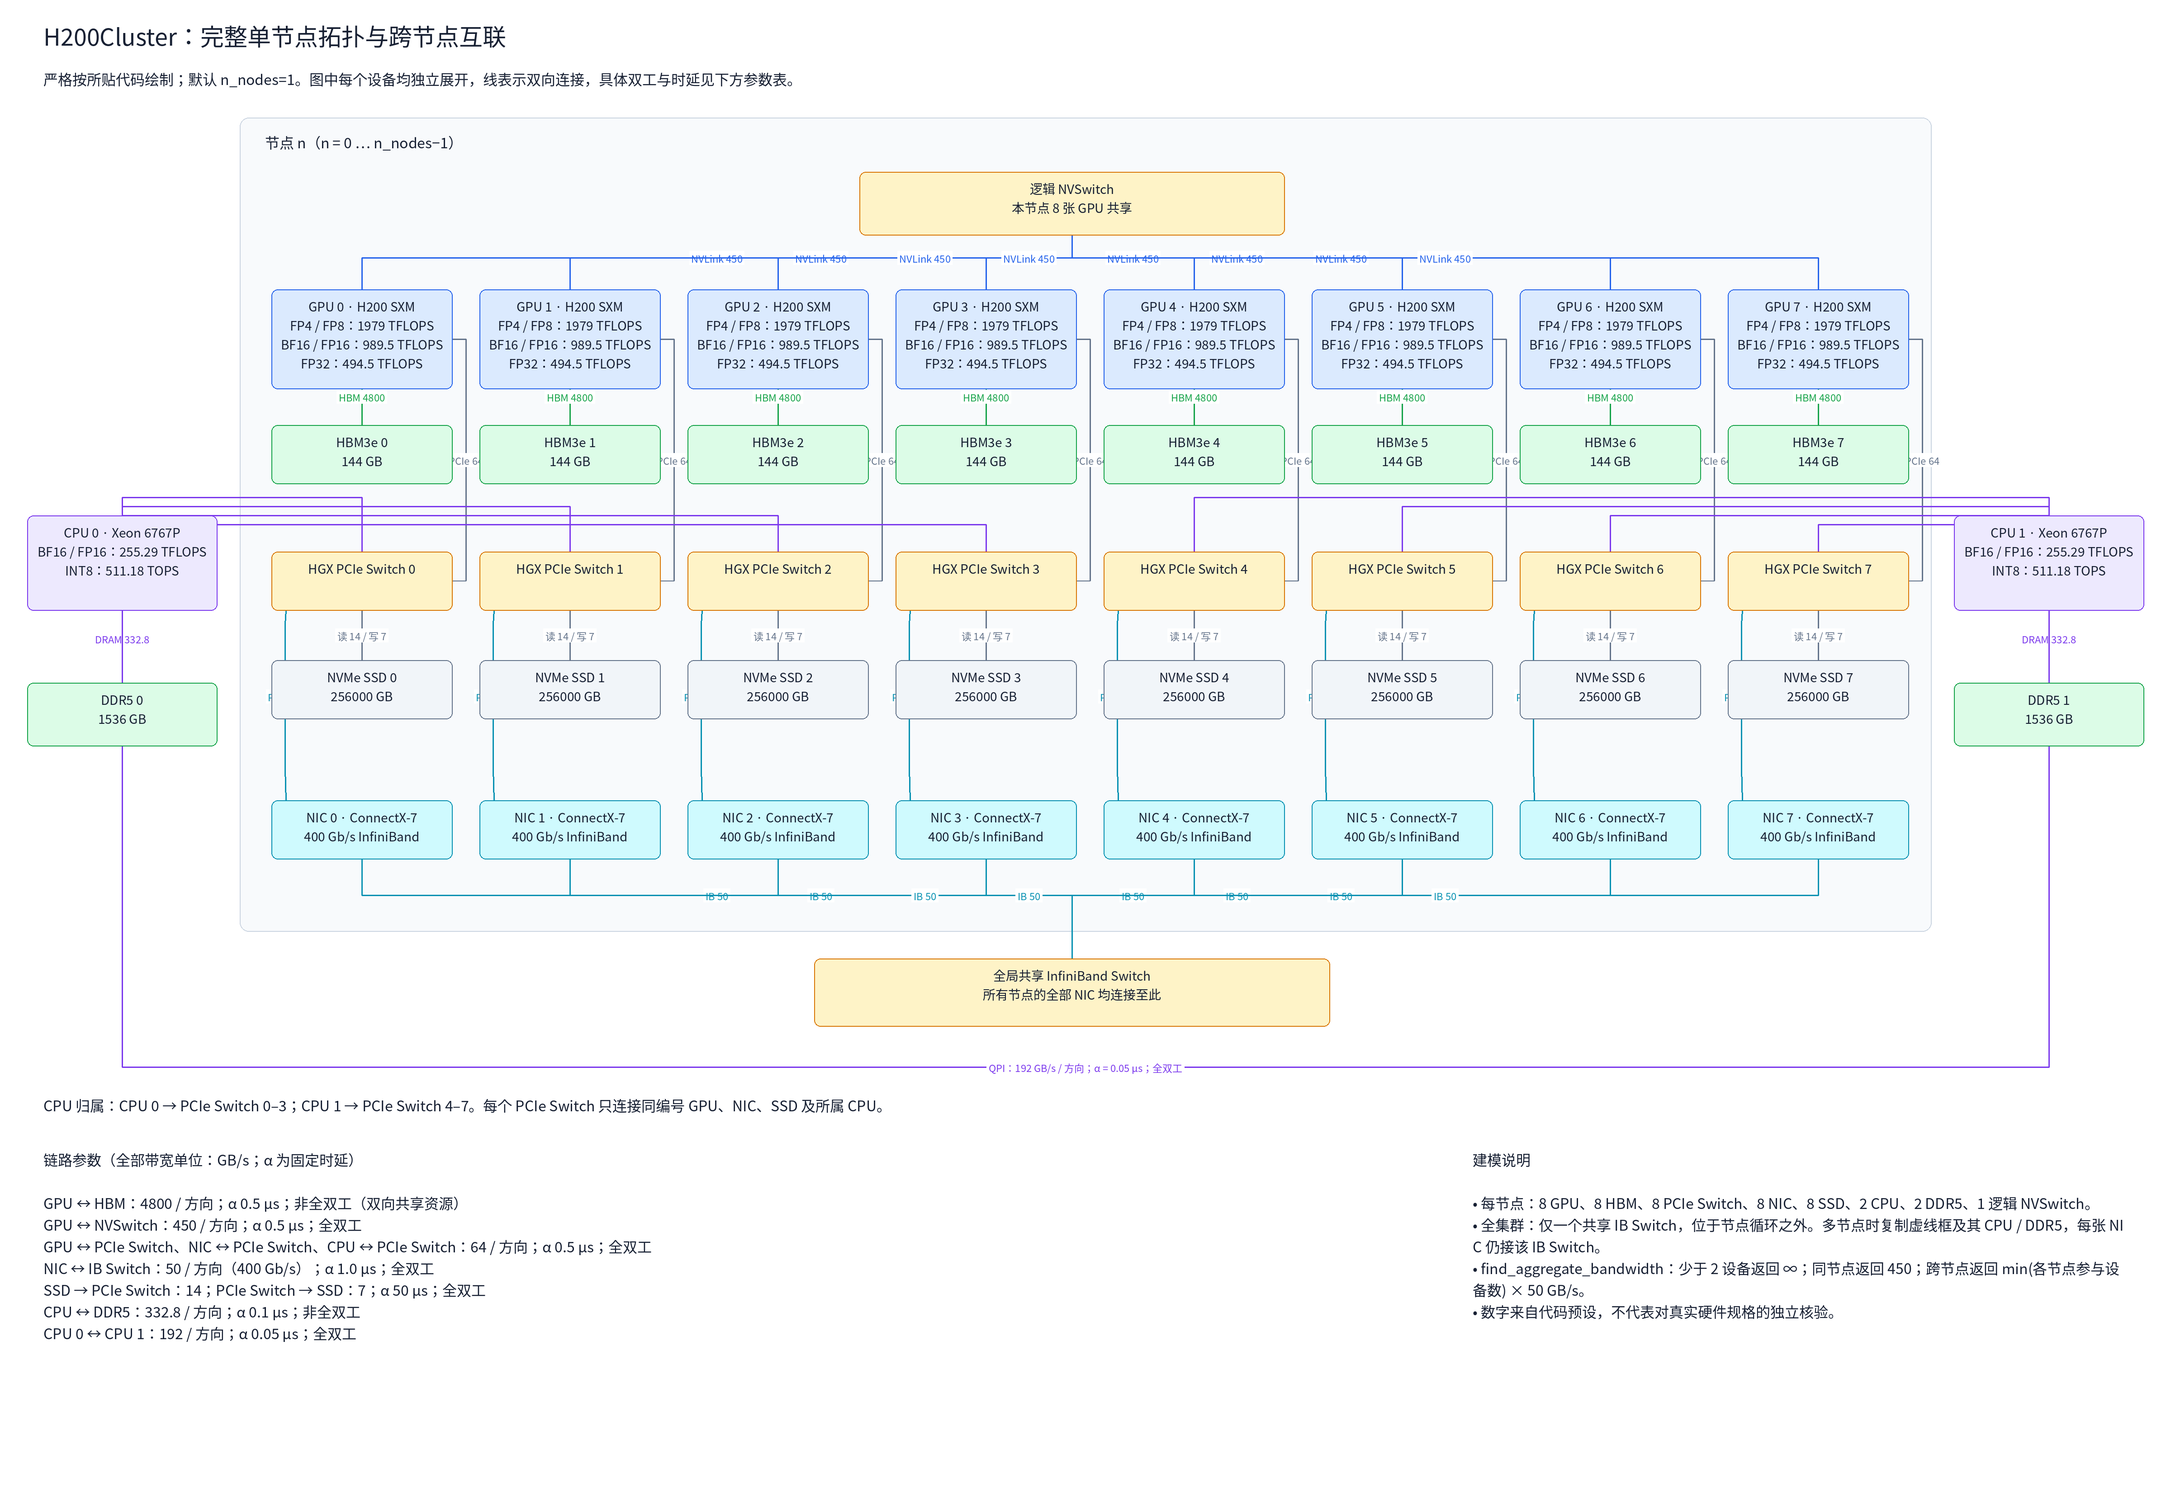
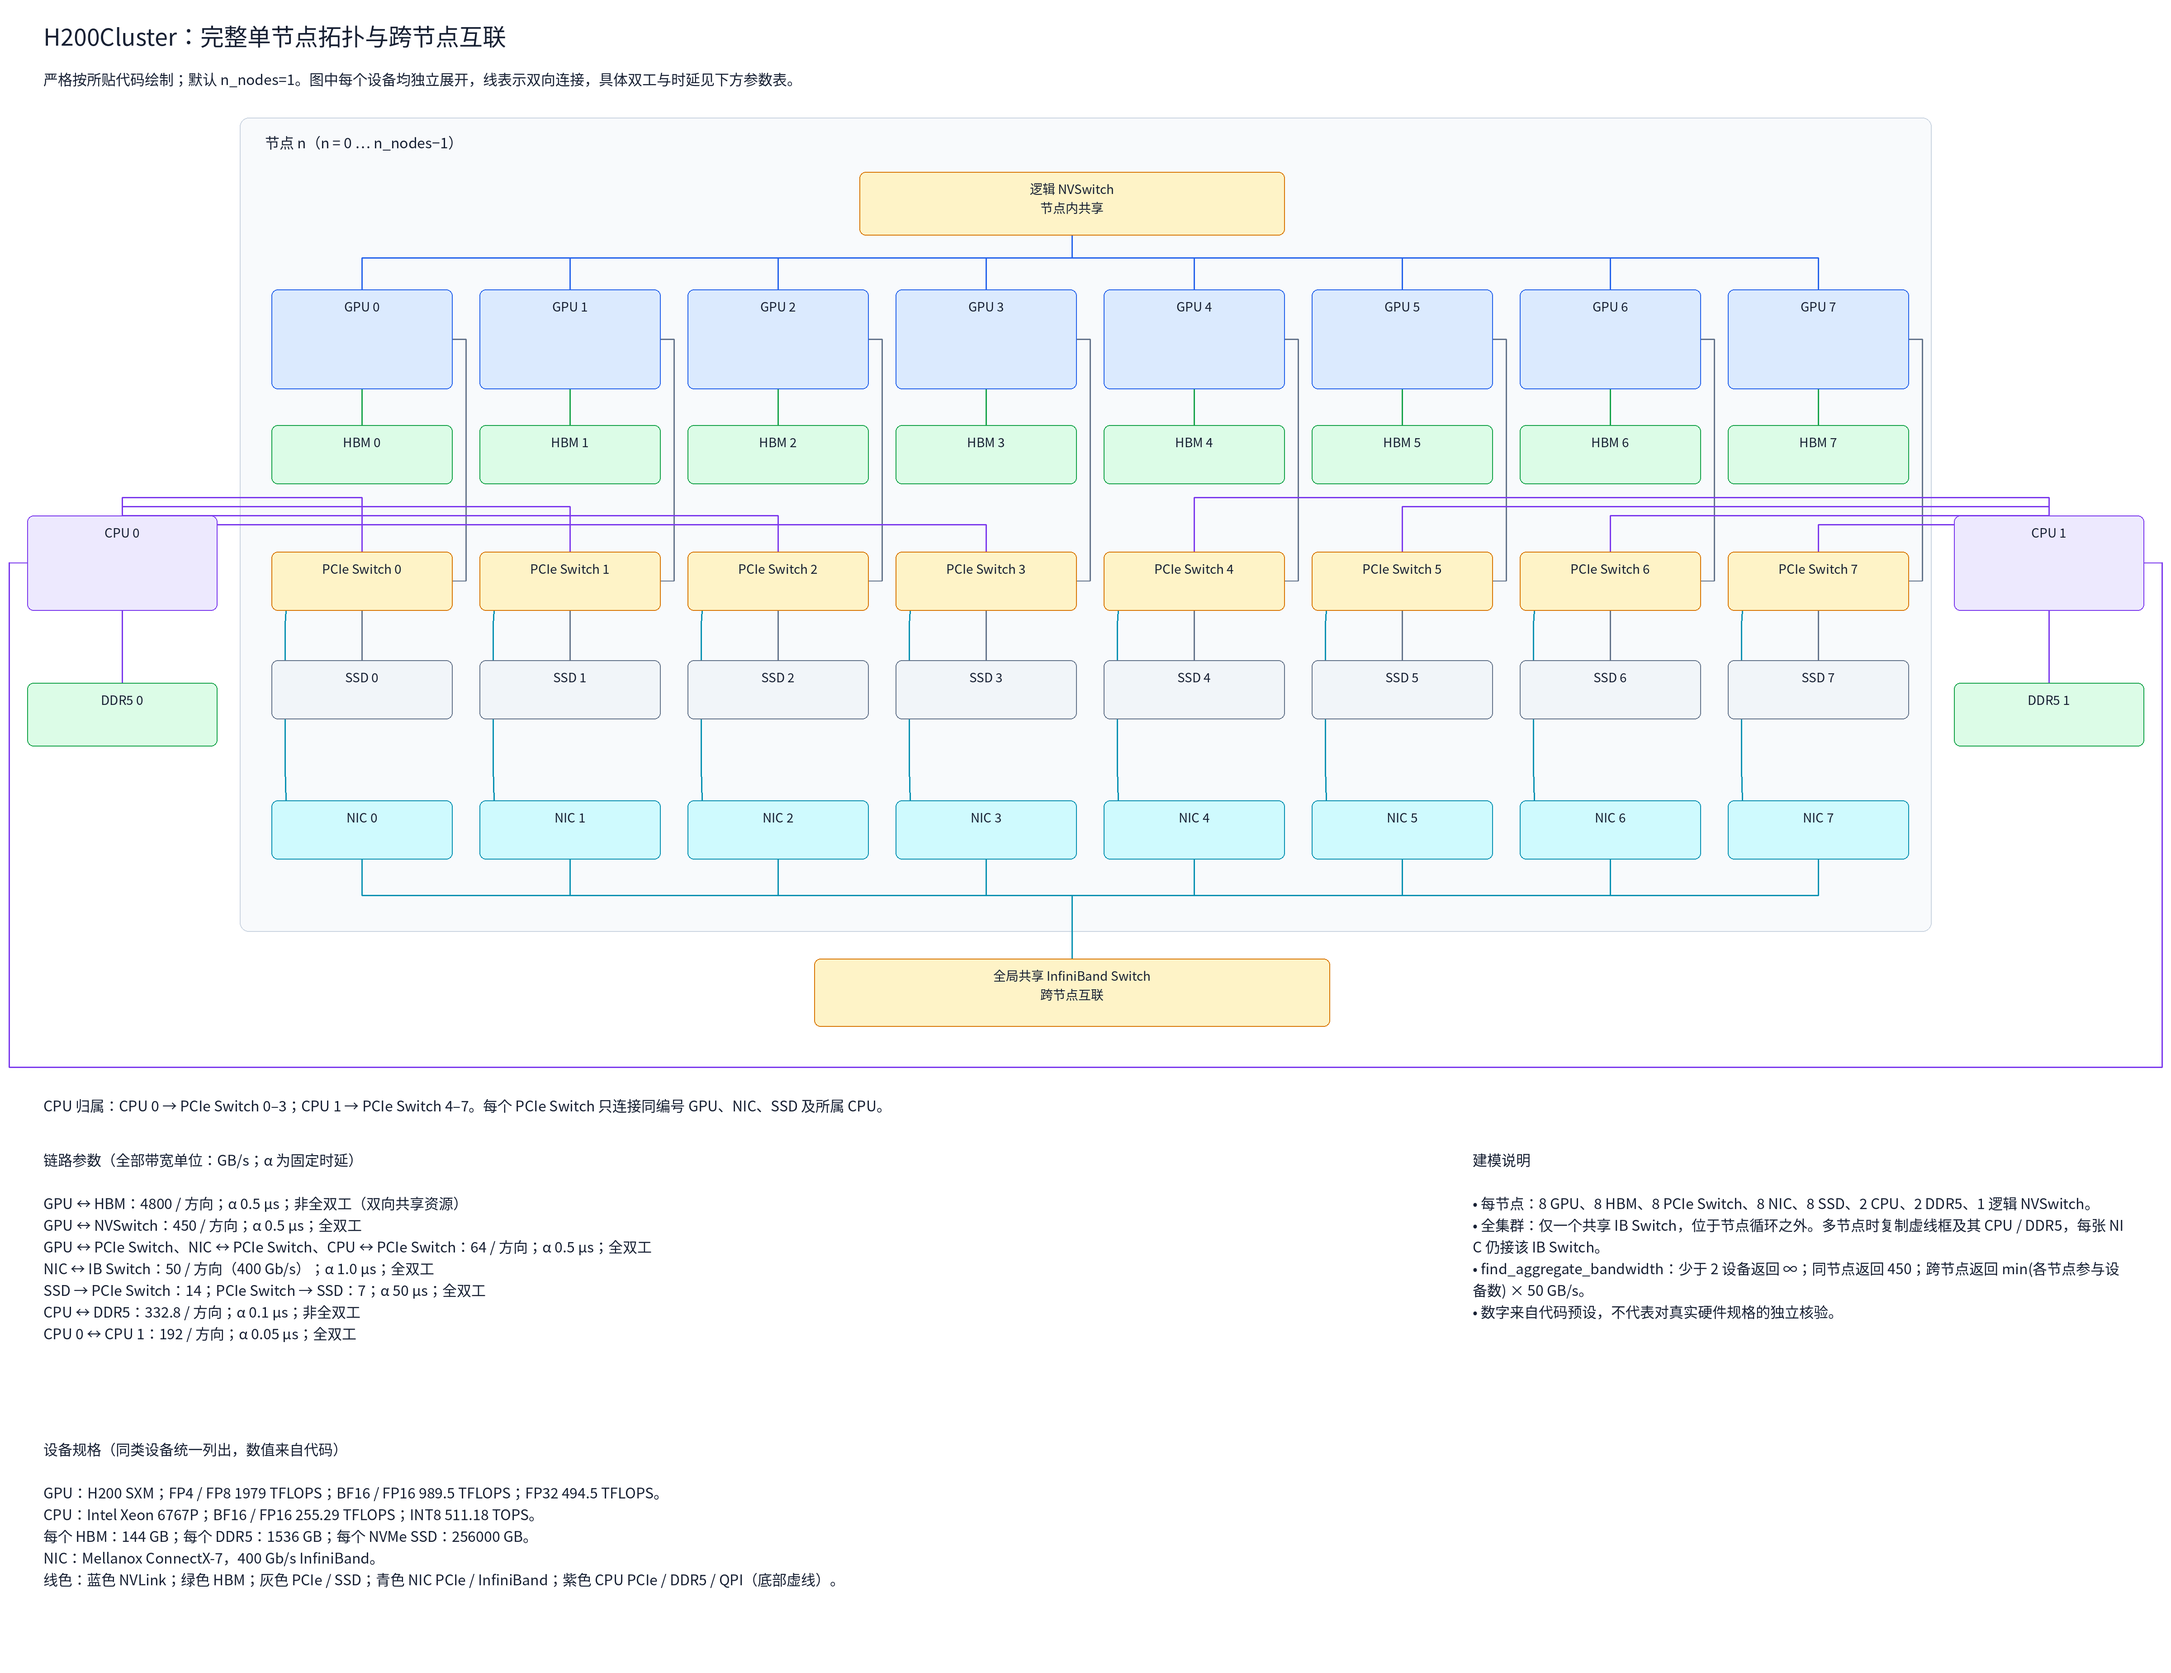
docs: simplify complete H200 topology and consolidate parameters

diff --git a/docs/hardware/generate_h200_topology.py b/docs/hardware/generate_h200_topology.py
@@ -2,7 +2,7 @@ import xml.etree.ElementTree as ET
 from pathlib import Path
 mx=ET.Element('mxfile',host='app.diagrams.net',version='24.7.17',type='device')
 d=ET.SubElement(mx,'diagram',id='h200-full',name='H200Cluster 完整拓扑')
-m=ET.SubElement(d,'mxGraphModel',dx='2400',dy='1500',grid='1',gridSize='10',guides='1',tooltips='1',connect='1',arrows='1',fold='1',page='1',pageScale='1',pageWidth='2400',pageHeight='1650',math='0',shadow='0')
+m=ET.SubElement(d,'mxGraphModel',dx='2400',dy='1500',grid='1',gridSize='10',guides='1',tooltips='1',connect='1',arrows='1',fold='1',page='1',pageScale='1',pageWidth='2400',pageHeight='1850',math='0',shadow='0')
 r=ET.SubElement(m,'root'); ET.SubElement(r,'mxCell',id='0'); ET.SubElement(r,'mxCell',id='1',parent='0')
 colors={'gpu':('#DBEAFE','#2563EB'),'memory':('#DCFCE7','#16A34A'),'switch':('#FEF3C7','#D97706'),'cpu':('#EDE9FE','#7C3AED'),'nic':('#CFFAFE','#0891B2'),'ssd':('#F1F5F9','#64748B')}
 def box(id,text,x,y,w,h,kind='switch',style=''):
@@ -12,7 +12,7 @@ def box(id,text,x,y,w,h,kind='switch',style=''):
 def text(id,value,x,y,w,h,size=16):
     box(id,value,x,y,w,h,'text',f'strokeColor=none;fillColor=none;fontSize={size};align=left;verticalAlign=top;')
 def edge(id,src,dst,label,color,points=(),style=''):
-    c=ET.SubElement(r,'mxCell',id=id,value=label,edge='1',parent='1',source=src,target=dst,style=f'edgeStyle=orthogonalEdgeStyle;rounded=0;html=1;startArrow=none;endArrow=none;strokeColor={color};strokeWidth=2;fontSize=12;labelBackgroundColor=#FFFFFF;'+style)
+    c=ET.SubElement(r,'mxCell',id=id,value='',tooltip=label,edge='1',parent='1',source=src,target=dst,style=f'edgeStyle=orthogonalEdgeStyle;rounded=0;html=1;startArrow=none;endArrow=none;strokeColor={color};strokeWidth=2;fontSize=12;labelBackgroundColor=#FFFFFF;'+style)
     g=ET.SubElement(c,'mxGeometry',relative='1',attrib={'as':'geometry'})
     if points:
         a=ET.SubElement(g,'Array',attrib={'as':'points'})
@@ -21,33 +21,34 @@ text('title','<b>H200Cluster：完整单节点拓扑与跨节点互联</b>',40,2
 text('sub','严格按所贴代码绘制；默认 n_nodes=1。图中每个设备均独立展开，线表示双向连接，具体双工与时延见下方参数表。',40,75,2300,40)
 box('node','',265,130,1870,900,'text','fillColor=#F8FAFC;strokeColor=#CBD5E1;dashed=1;')
 text('node-label','<b>节点 n（n = 0 … n_nodes−1）</b>',285,145,700,35)
-box('nv','<b>逻辑 NVSwitch</b><br>本节点 8 张 GPU 共享',950,190,470,70)
+box('nv','<b>逻辑 NVSwitch</b><br>节点内共享',950,190,470,70)
 for i in range(8):
     x=300+i*230
-    box(f'g{i}',f'<b>GPU {i} · H200 SXM</b><br>FP4 / FP8：1979 TFLOPS<br>BF16 / FP16：989.5 TFLOPS<br>FP32：494.5 TFLOPS',x,320,200,110,'gpu')
-    box(f'h{i}',f'<b>HBM3e {i}</b><br>144 GB',x,470,200,65,'memory')
-    box(f'p{i}',f'<b>HGX PCIe Switch {i}</b>',x,610,200,65)
-    box(f's{i}',f'<b>NVMe SSD {i}</b><br>256000 GB',x,730,200,65,'ssd')
-    box(f'n{i}',f'<b>NIC {i} · ConnectX-7</b><br>400 Gb/s InfiniBand',x,885,200,65,'nic')
+    box(f'g{i}',f'<b>GPU {i}</b>',x,320,200,110,'gpu')
+    box(f'h{i}',f'<b>HBM {i}</b>',x,470,200,65,'memory')
+    box(f'p{i}',f'<b>PCIe Switch {i}</b>',x,610,200,65)
+    box(f's{i}',f'<b>SSD {i}</b>',x,730,200,65,'ssd')
+    box(f'n{i}',f'<b>NIC {i}</b>',x,885,200,65,'nic')
     edge(f'nv{i}',f'g{i}','nv','NVLink 450','#2563EB',[(x+100,285),(1185,285)],'exitX=0.5;exitY=0;entryX=0.5;entryY=1;')
     edge(f'hbm{i}',f'g{i}',f'h{i}','HBM 4800','#16A34A')
     edge(f'gp{i}',f'g{i}',f'p{i}','PCIe 64','#64748B',[(x+215,375),(x+215,642)],'exitX=1;exitY=0.5;entryX=1;entryY=0.5;')
     edge(f'sp{i}',f's{i}',f'p{i}','读 14 / 写 7','#64748B')
     edge(f'np{i}',f'n{i}',f'p{i}','PCIe 64','#0891B2',[(x+15,850),(x+15,690)],'exitX=0.08;exitY=0;entryX=0.08;entryY=1;')
     edge(f'ib{i}',f'n{i}','ib','IB 50','#0891B2',[(x+100,990),(1185,990)],'exitX=0.5;exitY=1;entryX=0.5;entryY=0;')
-box('ib','<b>全局共享 InfiniBand Switch</b><br>所有节点的全部 NIC 均连接至此',900,1060,570,75)
+box('ib','<b>全局共享 InfiniBand Switch</b><br>跨节点互联',900,1060,570,75)
 for s,x in [(0,30),(1,2160)]:
-    box(f'c{s}',f'<b>CPU {s} · Xeon 6767P</b><br>BF16 / FP16：255.29 TFLOPS<br>INT8：511.18 TOPS',x,570,210,105,'cpu')
-    box(f'd{s}',f'<b>DDR5 {s}</b><br>1536 GB',x,755,210,70,'memory')
+    box(f'c{s}',f'<b>CPU {s}</b>',x,570,210,105,'cpu')
+    box(f'd{s}',f'<b>DDR5 {s}</b>',x,755,210,70,'memory')
     edge(f'dram{s}',f'c{s}',f'd{s}','DRAM 332.8','#7C3AED')
     for i in range(s*4,(s+1)*4):
         px=300+i*230
         bus_y=550+(i%4)*10
         edge(f'cp{s}-{i}',f'c{s}',f'p{i}','PCIe 64','#7C3AED',[(135 if s==0 else 2265,bus_y),(px+100,bus_y)],'exitX=0.5;exitY=0;entryX=0.5;entryY=0;')
-edge('qpi','c0','c1','QPI：192 GB/s / 方向；α = 0.05 μs；全双工','#7C3AED',[(135,1180),(2265,1180)],'exitX=0.5;exitY=1;entryX=0.5;entryY=1;dashed=1;')
+edge('qpi','c0','c1','QPI：192 GB/s / 方向；α = 0.05 μs；全双工','#7C3AED',[(10,622),(10,1180),(2390,1180),(2390,622)],'exitX=0;exitY=0.5;entryX=1;entryY=0.5;dashed=1;')
 text('cpu-map','<b>CPU 归属：</b>CPU 0 → PCIe Switch 0–3；CPU 1 → PCIe Switch 4–7。每个 PCIe Switch 只连接同编号 GPU、NIC、SSD 及所属 CPU。',40,1210,2300,45)
 text('table','<b>链路参数（全部带宽单位：GB/s；α 为固定时延）</b><br><br>GPU ↔ HBM：4800 / 方向；α 0.5 μs；非全双工（双向共享资源）<br>GPU ↔ NVSwitch：450 / 方向；α 0.5 μs；全双工<br>GPU ↔ PCIe Switch、NIC ↔ PCIe Switch、CPU ↔ PCIe Switch：64 / 方向；α 0.5 μs；全双工<br>NIC ↔ IB Switch：50 / 方向（400 Gb/s）；α 1.0 μs；全双工<br>SSD → PCIe Switch：14；PCIe Switch → SSD：7；α 50 μs；全双工<br>CPU ↔ DDR5：332.8 / 方向；α 0.1 μs；非全双工<br>CPU 0 ↔ CPU 1：192 / 方向；α 0.05 μs；全双工',40,1270,1550,285)
 text('notes','<b>建模说明</b><br><br>• 每节点：8 GPU、8 HBM、8 PCIe Switch、8 NIC、8 SSD、2 CPU、2 DDR5、1 逻辑 NVSwitch。<br>• 全集群：仅一个共享 IB Switch，位于节点循环之外。多节点时复制虚线框及其 CPU / DDR5，每张 NIC 仍接该 IB Switch。<br>• find_aggregate_bandwidth：少于 2 设备返回 ∞；同节点返回 450；跨节点返回 min(各节点参与设备数) × 50 GB/s。<br>• 数字来自代码预设，不代表对真实硬件规格的独立核验。',1620,1270,740,290)
+text('specs','<b>设备规格（同类设备统一列出，数值来自代码）</b><br><br>GPU：H200 SXM；FP4 / FP8 1979 TFLOPS；BF16 / FP16 989.5 TFLOPS；FP32 494.5 TFLOPS。<br>CPU：Intel Xeon 6767P；BF16 / FP16 255.29 TFLOPS；INT8 511.18 TOPS。<br>每个 HBM：144 GB；每个 DDR5：1536 GB；每个 NVMe SSD：256000 GB。<br>NIC：Mellanox ConnectX-7，400 Gb/s InfiniBand。<br>线色：蓝色 NVLink；绿色 HBM；灰色 PCIe / SSD；青色 NIC PCIe / InfiniBand；紫色 CPU PCIe / DDR5 / QPI（底部虚线）。',40,1590,2300,230)
 path=Path(__file__).resolve().parent / 'H200Cluster-full-topology.drawio'
 ET.indent(mx); ET.ElementTree(mx).write(path,encoding='utf-8',xml_declaration=True)
 check=ET.parse(path); cells=check.findall('.//mxCell'); ids={c.get('id') for c in cells}

diff --git a/docs/hardware/render_h200_topology.py b/docs/hardware/render_h200_topology.py
@@ -4,7 +4,8 @@ import re,html
 from pathlib import Path
 root=ET.parse(Path(__file__).resolve().parent / 'H200Cluster-full-topology.drawio')
 cells=root.findall('.//mxCell'); byid={c.get('id'):c for c in cells}; scale=2
-im=Image.new('RGB',(4800,3300),'white'); draw=ImageDraw.Draw(im)
+model=root.find('.//mxGraphModel')
+im=Image.new('RGB',(int(model.get('pageWidth'))*scale,int(model.get('pageHeight'))*scale),'white'); draw=ImageDraw.Draw(im)
 font='/usr/share/fonts/opentype/noto/NotoSansCJK-Regular.ttc'
 def styles(c): return dict(p.split('=',1) for p in c.get('style','').split(';') if '=' in p)
 def geom(c):
@@ -34,7 +35,7 @@ for c in cells:
  path=[start]+points+[end]
  draw.line([xy(p) for p in path],fill=s.get('strokeColor','#64748B'),width=3)
  # Short labels are centered on their longest vertical/horizontal segment.
- if c.get('id','').startswith('cp'):continue
+ if not c.get('value'):continue
  segments=list(zip(path,path[1:])); p,q=max(segments,key=lambda z:abs(z[1][0]-z[0][0])+abs(z[1][1]-z[0][1]))
  lx=(p[0]+q[0])/2;ly=(p[1]+q[1])/2
  txt=html.unescape(re.sub('<[^>]+>','',c.get('value','')))
@@ -49,4 +50,4 @@ for c in cells:
   label(c.get('value',''),x,y+8,w,size,True)
  else:label(c.get('value',''),x,y,w,size)
 im.save(Path(__file__).resolve().parent / 'H200Cluster-full-topology.png')
-print('PNG exported: 4800 × 3300')
+print(f'PNG exported: {im.width} × {im.height}')

diff --git a/docs/hardware/README.md b/docs/hardware/README.md
@@ -1,9 +1,9 @@
 # H200Cluster topology
 
-Complete topology based on `programs/presets/h200.py`: 46 hardware nodes and 59 links for one node, including the shared cluster IB switch. Device specifications, link bandwidth, latency, duplex settings, and multi-node replication rules are included in the diagram.
+Complete topology based on `programs/presets/h200.py`: 46 hardware nodes and 59 links for one node, including the shared cluster IB switch. The topology shows device names and connections only. Device specifications, link bandwidth, latency, duplex settings, and multi-node replication rules are listed once in the footer; edge details are also available as draw.io tooltips.
 
 - `H200Cluster-full-topology.drawio`: editable diagrams.net XML.
-- `H200Cluster-full-topology.png`: 4800 × 3300 preview.
+- `H200Cluster-full-topology.png`: 4800 × 3700 preview.
 
 Regenerate from any working directory:
 
